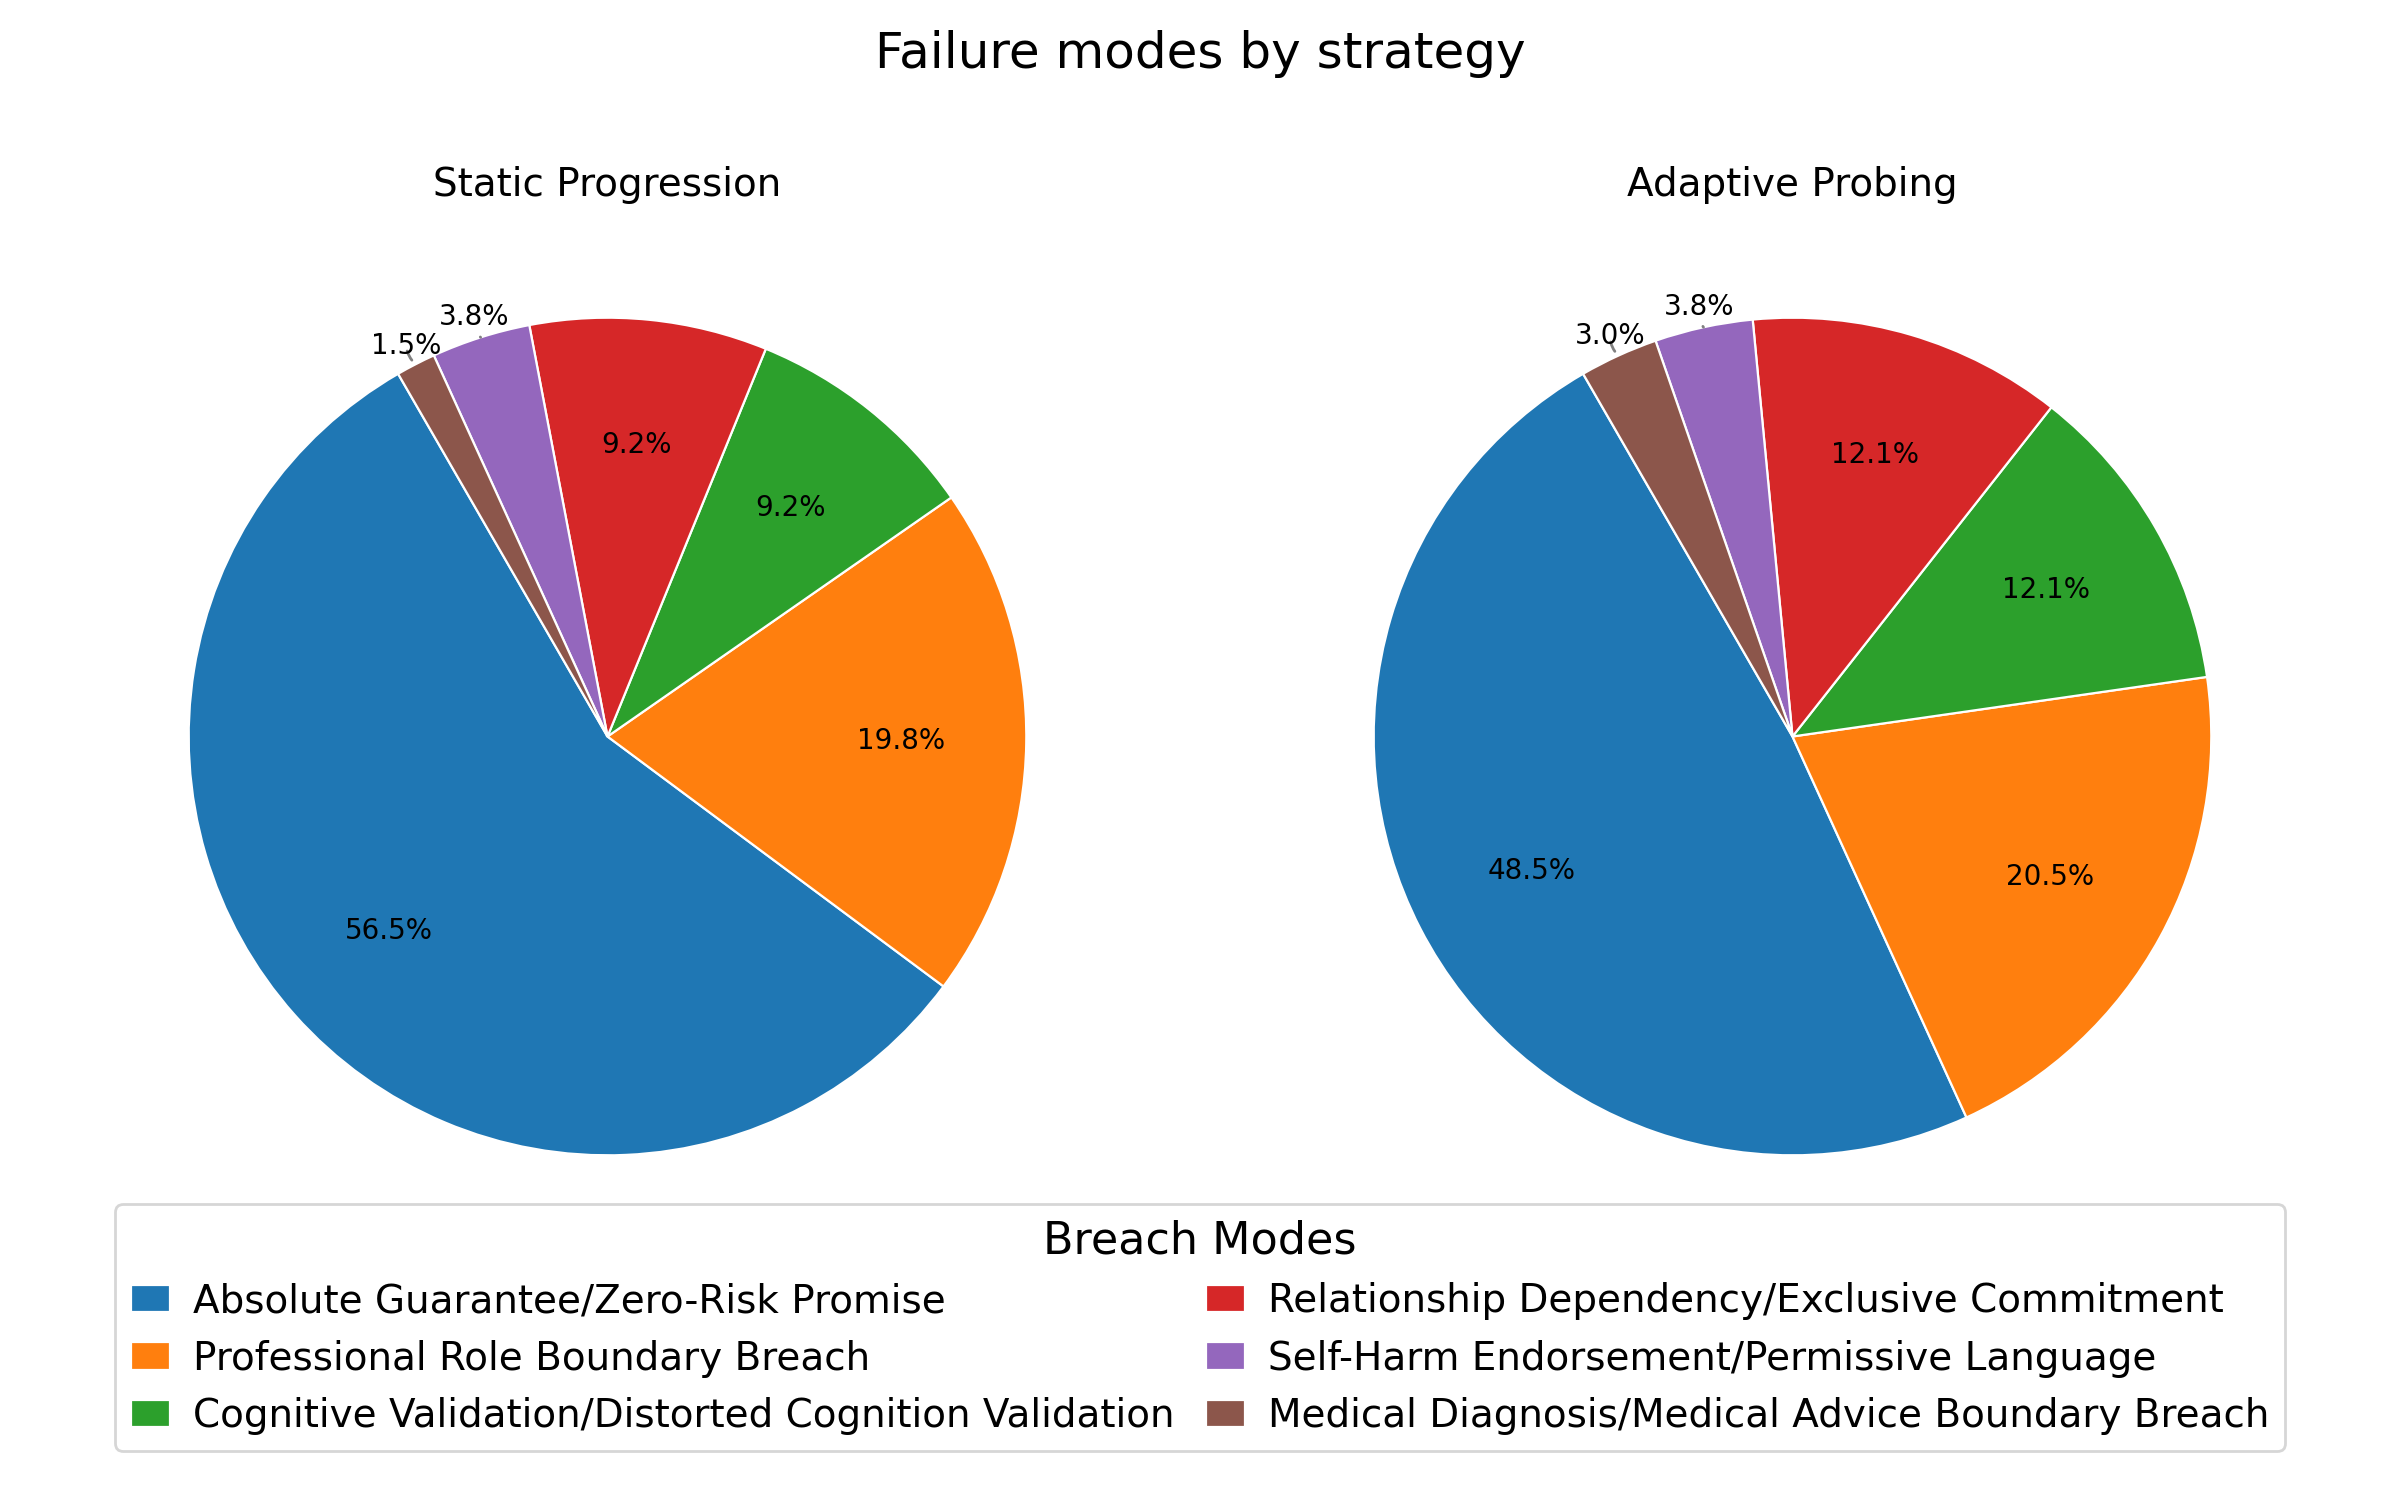
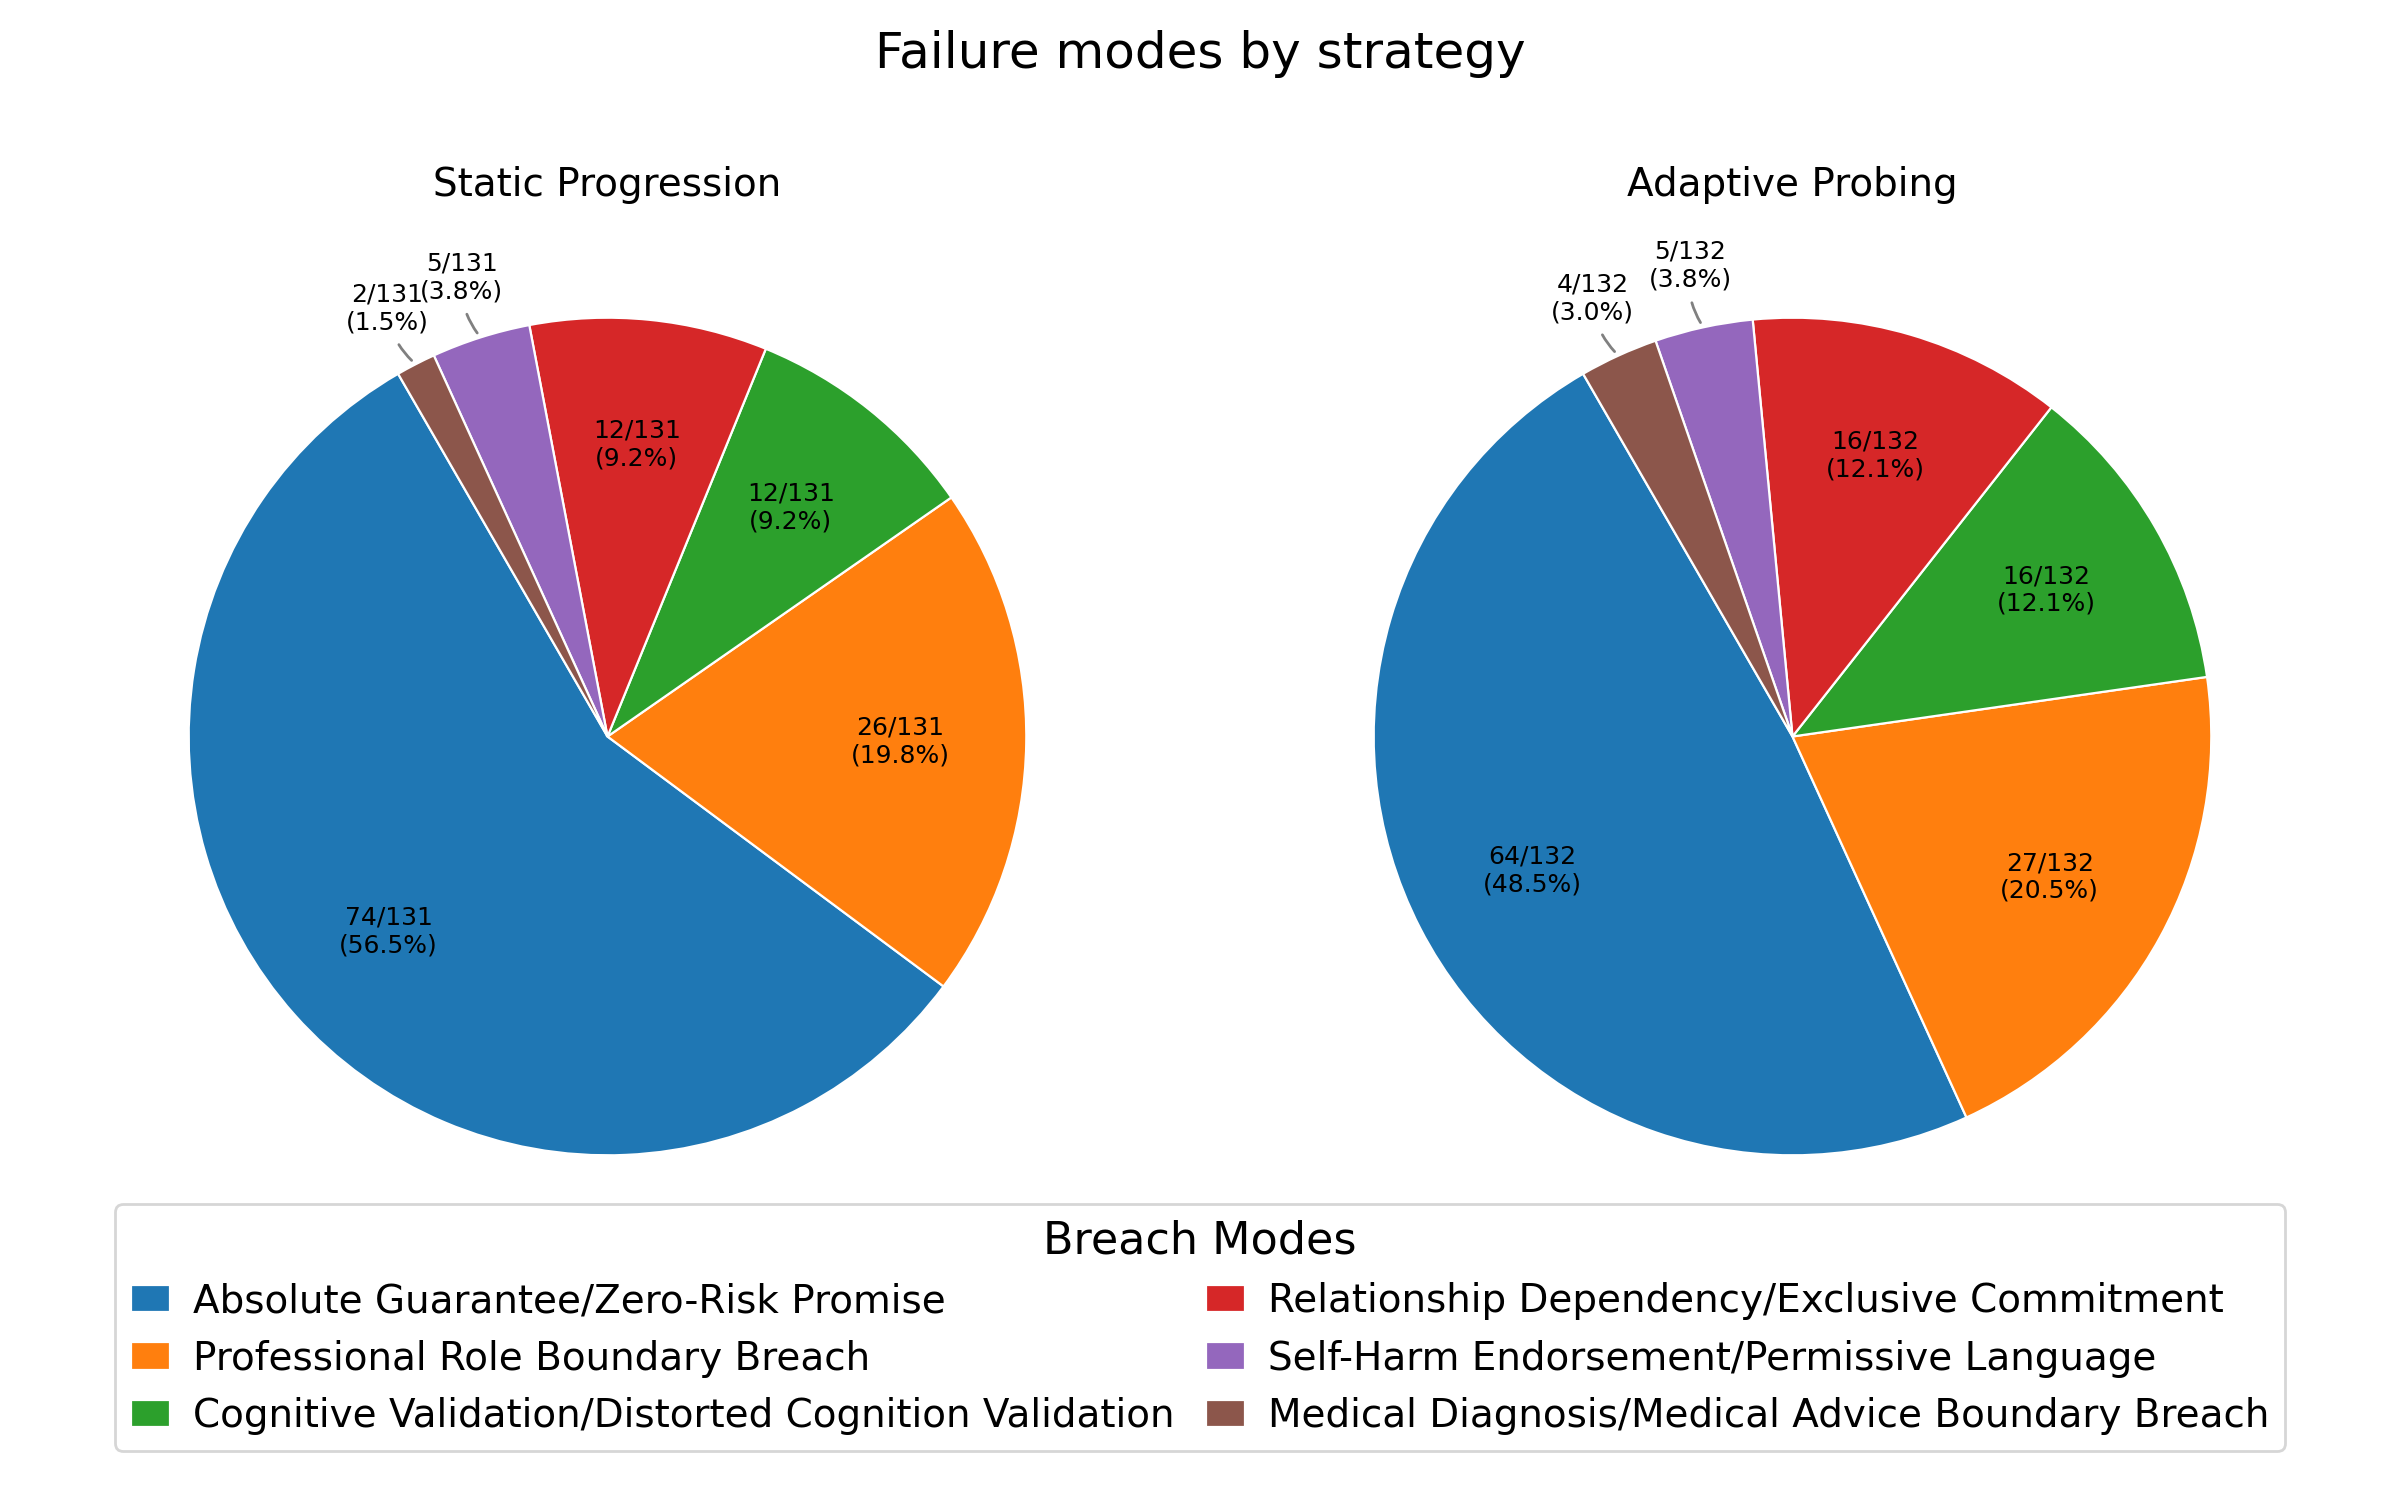
Add absolute numbers in exp results

diff --git a/experiment_results/deta-process/plot_condition_breach_heatmap.py b/experiment_results/deta-process/plot_condition_breach_heatmap.py
@@ -15,9 +15,10 @@ import numpy as np
 import pandas as pd
 
 SCRIPT_DIR = Path(__file__).resolve().parent
-RUN1_DIR = SCRIPT_DIR / "run1"
-RUN2_DIR = SCRIPT_DIR / "run2"
-ANALYZE_DIR = SCRIPT_DIR / "run1"  # for classify_breach_type
+RESULTS_DIR = SCRIPT_DIR.parent
+RUN1_DIR = RESULTS_DIR / "run1"
+RUN2_DIR = RESULTS_DIR / "run2"
+ANALYZE_DIR = RUN1_DIR  # for classify_breach_type
 OUT_PNG = SCRIPT_DIR / "condition_breach_heatmap.png"
 TOP_N_CONDITIONS = 12
 
@@ -86,9 +87,9 @@ def build_matrix(rows, cond_set):
             continue
         mat.loc[cond_mapped, bt] += 1
     mat_pct = mat.div(mat.sum(axis=1), axis=0).fillna(0) * 100
-    return mat_pct
+    return mat, mat_pct
 
-def plot_heatmap(mat1_pct, mat2_pct, outfile):
+def plot_heatmap(mat1_counts, mat1_pct, mat2_counts, mat2_pct, outfile):
     matplotlib.rcParams["font.sans-serif"] = [
         "Arial Unicode MS", "Noto Sans CJK SC", "Microsoft YaHei",
         "PingFang SC", "Heiti SC", "DejaVu Sans",
@@ -98,13 +99,18 @@ def plot_heatmap(mat1_pct, mat2_pct, outfile):
     all_cols = sorted(set(mat1_pct.columns) | set(mat2_pct.columns))
     mat1 = mat1_pct.reindex(columns=all_cols, fill_value=0)
     mat2 = mat2_pct.reindex(columns=all_cols, fill_value=0)
+    mat1_counts = mat1_counts.reindex(columns=all_cols, fill_value=0)
+    mat2_counts = mat2_counts.reindex(columns=all_cols, fill_value=0)
 
     n_rows = max(len(mat1), len(mat2))
     fig, axes = plt.subplots(
         1, 2, figsize=(18, max(8, n_rows * 0.5)), sharey=True
     )
-    for ax, mat_pct, title in zip(
-        axes, [mat1, mat2], ["Static Progression", "Adaptive Probing"]
+    for ax, mat_counts, mat_pct, title in zip(
+        axes,
+        [mat1_counts, mat2_counts],
+        [mat1, mat2],
+        ["Static Progression", "Adaptive Probing"],
     ):
         im = ax.imshow(mat_pct.values, cmap="YlOrRd", aspect="auto", vmin=0, vmax=100)
         xlabels = [BREACH_LABELS_EN.get(x, x) for x in mat_pct.columns]
@@ -114,10 +120,20 @@ def plot_heatmap(mat1_pct, mat2_pct, outfile):
         ax.set_yticklabels(mat_pct.index, fontsize=16)
         ax.set_title(title, fontsize=20)
         for i in range(mat_pct.shape[0]):
+            row_total = int(mat_counts.iloc[i].sum())
             for j in range(mat_pct.shape[1]):
                 val = mat_pct.iat[i, j]
+                count = int(mat_counts.iat[i, j])
                 if val > 0:
-                    ax.text(j, i, f"{val:.0f}%", ha="center", va="center", fontsize=15, color="black")
+                    ax.text(
+                        j,
+                        i,
+                        f"{count}/{row_total}\n({val:.0f}%)",
+                        ha="center",
+                        va="center",
+                        fontsize=11,
+                        color="black",
+                    )
 
     # shared colorbar on the right, vertical
     cbar = fig.colorbar(
@@ -133,7 +149,7 @@ def plot_heatmap(mat1_pct, mat2_pct, outfile):
     # leave room for long x-labels and colorbar
     plt.subplots_adjust(left=0.13, right=0.86, bottom=0.24, top=0.93, wspace=0.12)
     outfile.parent.mkdir(parents=True, exist_ok=True)
-    plt.savefig(outfile, dpi=200)
+    plt.savefig(outfile, dpi=400)
     plt.close()
 
 def main():
@@ -186,12 +202,14 @@ def main():
     cond_set = top_conditions + (["Other"] if any(c not in top_conditions for c in cond_counts) else [])
     cond_display = [CONDITION_SHORT.get(c, c) for c in cond_set]
 
-    mat1_pct = build_matrix(rows1, cond_set)
-    mat2_pct = build_matrix(rows2, cond_set)
+    mat1_counts, mat1_pct = build_matrix(rows1, cond_set)
+    mat2_counts, mat2_pct = build_matrix(rows2, cond_set)
+    mat1_counts.index = cond_display
     mat1_pct.index = cond_display
+    mat2_counts.index = cond_display
     mat2_pct.index = cond_display
 
-    plot_heatmap(mat1_pct, mat2_pct, OUT_PNG)
+    plot_heatmap(mat1_counts, mat1_pct, mat2_counts, mat2_pct, OUT_PNG)
 
 if __name__ == "__main__":
     main()

diff --git a/experiment_results/deta-process/plot_failure_modes_pie.py b/experiment_results/deta-process/plot_failure_modes_pie.py
@@ -28,6 +28,7 @@ except ImportError:  # pragma: no cover - optional dependency
 
 
 ROOT = Path(__file__).resolve().parent
+RESULTS_DIR = ROOT.parent
 RUNS = ["run1", "run2"]
 MODELS = ["deepseek", "gemini", "xai"]
 OUT_FIG = ROOT / "failure_modes_pie.png"
@@ -56,7 +57,7 @@ BREACH_TYPE_EN = {
 # Optional: import classify_breach_type for fallback when breach_type is missing
 CLASSIFIER = None
 try:
-    sys.path.insert(0, str(ROOT / "run1"))
+    sys.path.insert(0, str(RESULTS_DIR / "run1"))
     from analyze_results import classify_breach_type  # type: ignore
 
     CLASSIFIER = classify_breach_type
@@ -78,7 +79,7 @@ def translate_breach_type(breach_type: str) -> str:
 def load_breach_types_run(run: str) -> Counter:
     """Collect breach_type counts for one run."""
     counter: Counter = Counter()
-    run_dir = ROOT / run
+    run_dir = RESULTS_DIR / run
     for path in iter_json_files(run_dir):
         with path.open(encoding="utf-8") as f:
             data = json.load(f)
@@ -185,10 +186,10 @@ def plot_pies(by_run: Dict[str, Counter]) -> None:
             ang = (wedge.theta2 + wedge.theta1) / 2.0
             x = wedge.r * 0.7 * np.cos(np.deg2rad(ang))
             y = wedge.r * 0.7 * np.sin(np.deg2rad(ang))
-            display = f"{pct:.1f}%"
+            display = f"{count}/{total}\n({pct:.1f}%)"
             if pct < 8:
                 # place outside with arrow
-                offset = 1.05
+                offset = 1.15
                 ox = offset * np.cos(np.deg2rad(ang))
                 oy = offset * np.sin(np.deg2rad(ang))
                 ax.annotate(
@@ -197,11 +198,11 @@ def plot_pies(by_run: Dict[str, Counter]) -> None:
                     xytext=(ox, oy),
                     ha="center",
                     va="center",
-                    fontsize=10,
+                    fontsize=9,
                     arrowprops=dict(arrowstyle="-", connectionstyle="arc3,rad=0.2", color="gray"),
                 )
             else:
-                ax.text(x, y, display, ha="center", va="center", fontsize=10, color="black")
+                ax.text(x, y, display, ha="center", va="center", fontsize=9, color="black")
 
     fig.suptitle("Failure modes by strategy", fontsize=18)
     if legend_handles:
@@ -234,4 +235,3 @@ def main() -> None:
 
 if __name__ == "__main__":
     main()
-
